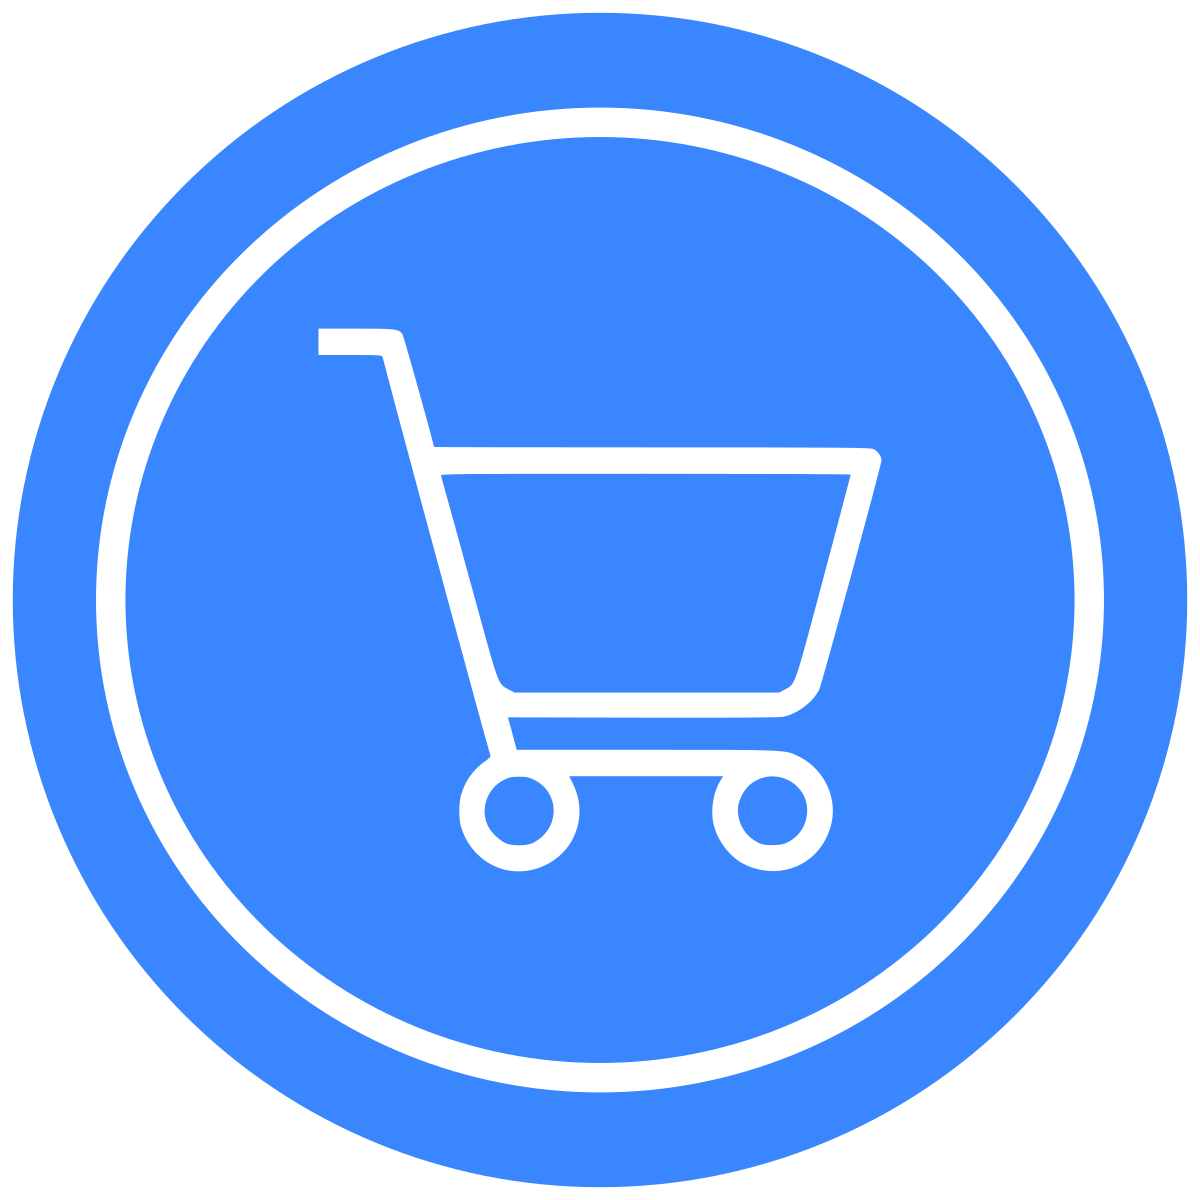
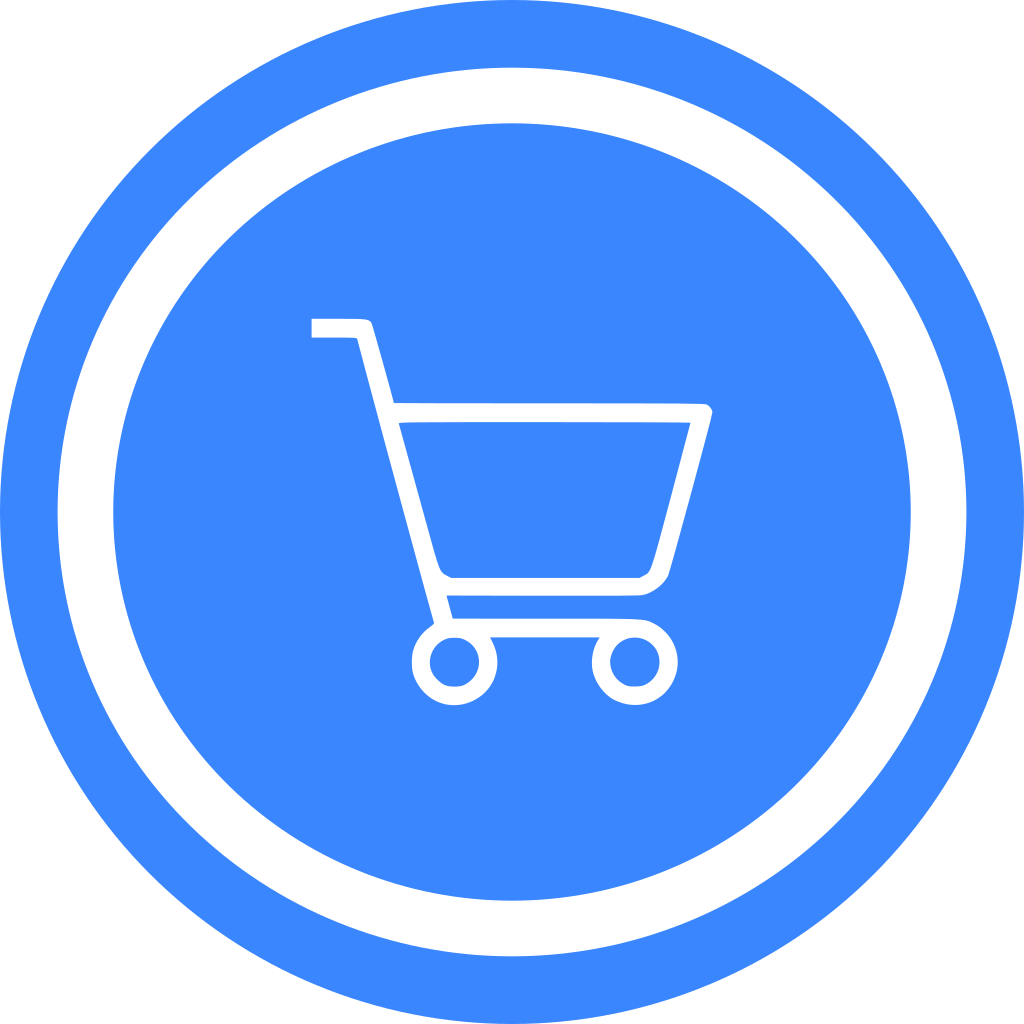
minor refactors

diff --git a/app/Main/(tabs)/AddNewProduct/Preview.js b/app/Main/(tabs)/AddNewProduct/Preview.js
@@ -153,7 +153,8 @@ export default function Preview(props) {
                             }, 2000);
                         } else {
                             setTimeout(async () => {
-                                await queryClient.invalidateQueries(["merchantProduct", storeId, newProduct.productId])
+                                await queryClient.invalidateQueries(["merchantProduct", storeId, newProduct.productId]);
+                                await queryClient.invalidateQueries("storeProducts");
                                 router.replace('/Main/(tabs)/Products/Product/' + newProduct.productId);
                                 resetWorkflow()
                             }, 2000);

diff --git a/app/Main/(tabs)/EditProduct/EditPreview.js b/app/Main/(tabs)/EditProduct/EditPreview.js
@@ -57,7 +57,8 @@ export default function EditPreview(props) {
                 setPublishFailure(true);
             } else {
                 setTimeout(async () => {
-                    await queryClient.invalidateQueries(["merchantProduct", storeId, editProduct.productId])
+                    await queryClient.invalidateQueries(["merchantProduct", storeId, editProduct.productId]);
+                    await queryClient.invalidateQueries("storeProducts");
                     router.replace('/Main/(tabs)/Products/Product/' + editProduct.productId);
                     resetWorkflow()
                 }, 2000);
